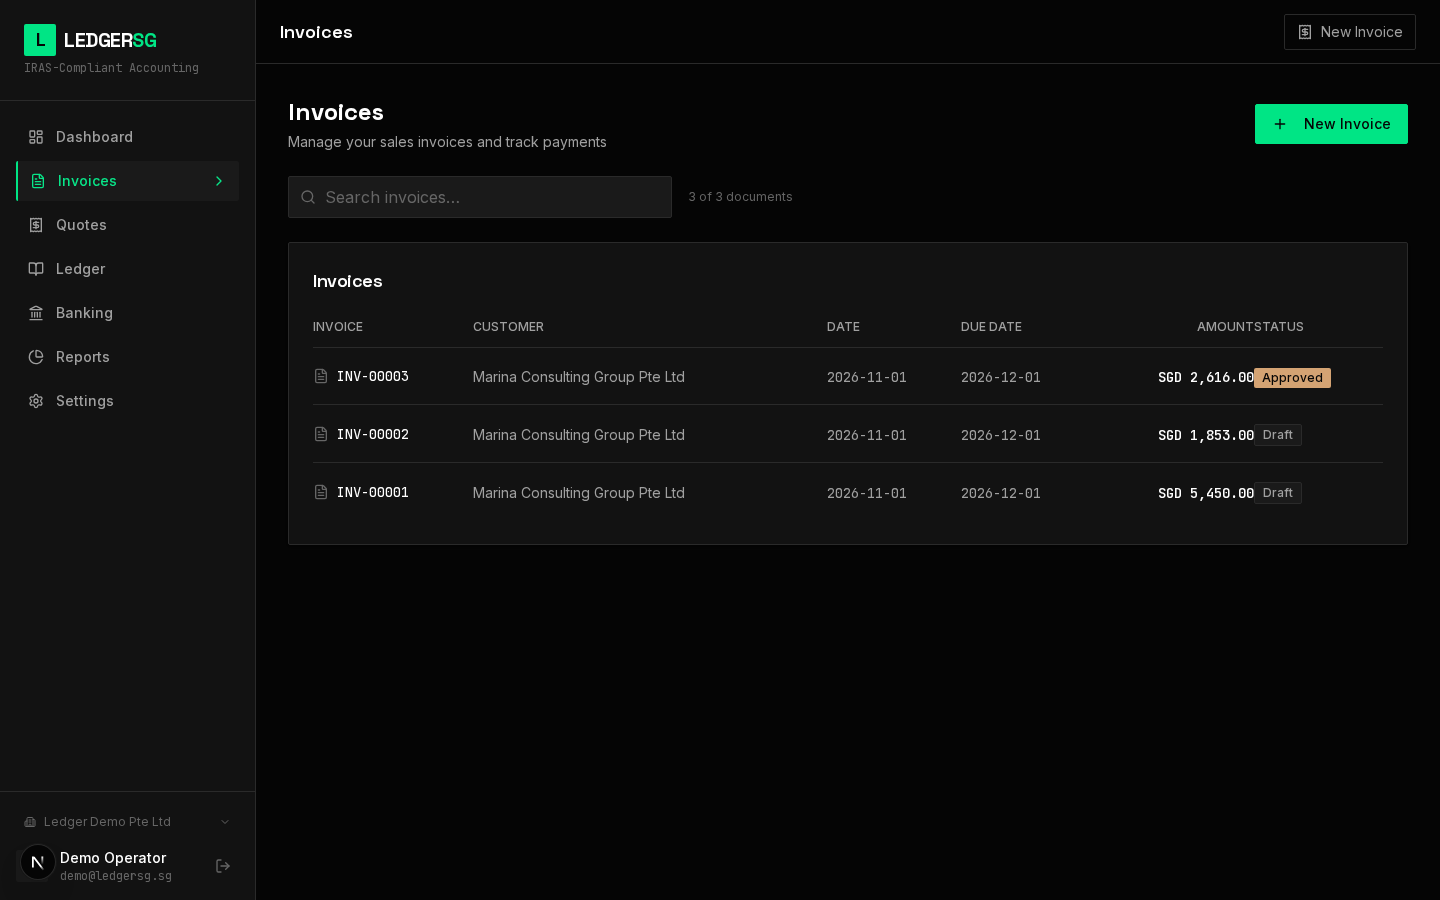
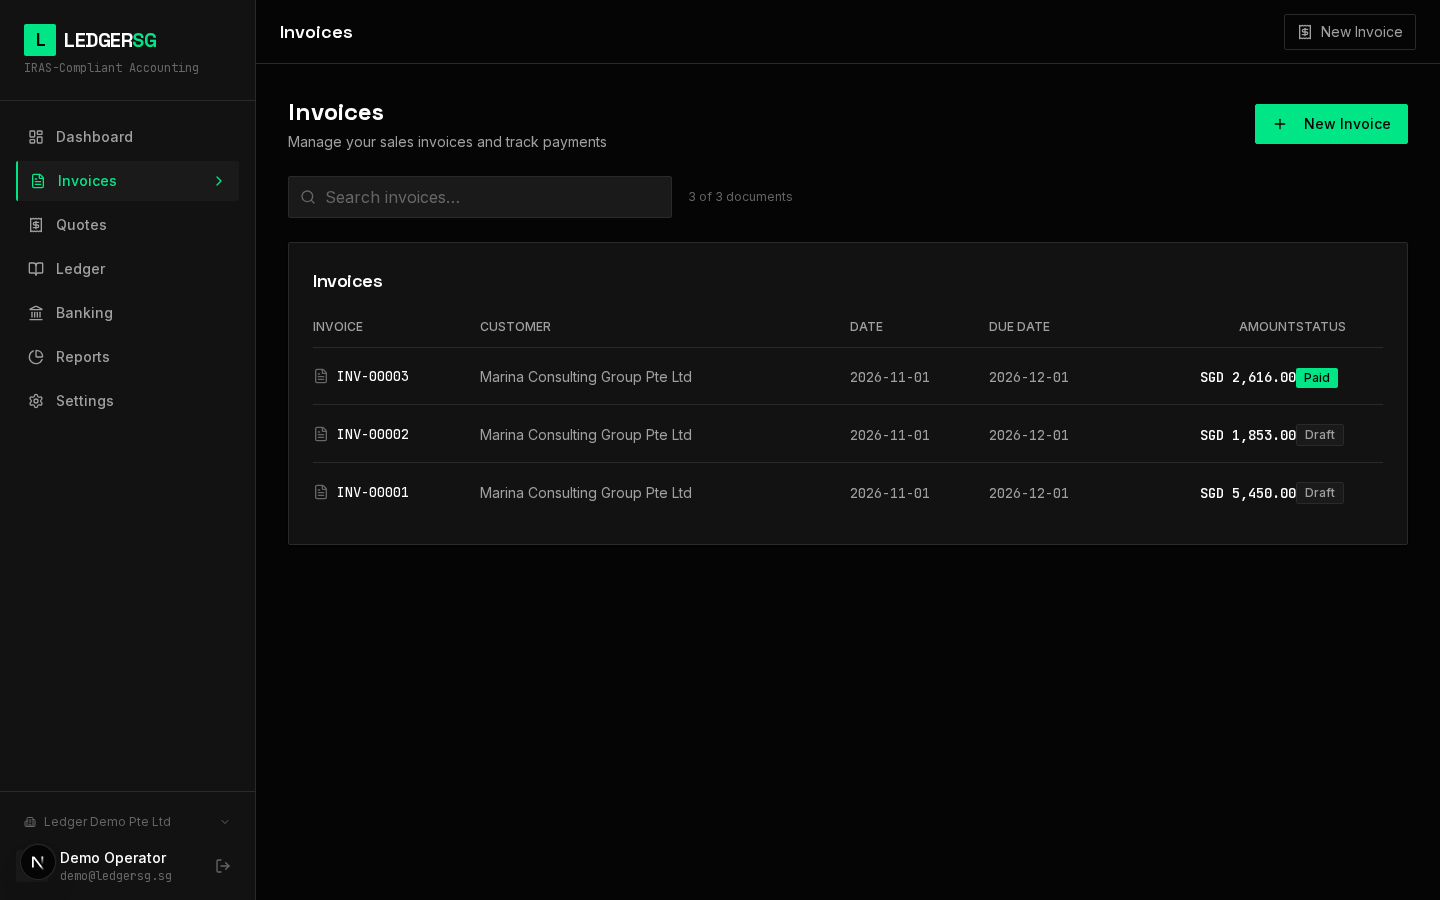
fix(banking,web,e2e): the live workflow gate — three contract fixes surfaced by e2e:full, then 26/26 green
The second and third live runs surfaced what the mocked unit gates
structurally could not see:

1. The bank-account create serializer rejected paynow_type: null — the
   dialog's 'no PayNow' wire value — so the account could never be
   created through the UI (the DB columns are nullable; the CHECK
   allows NULL or UEN/MOBILE/NRIC, and "" violates it — null is the
   correct wire value). Both create and update serializers accept null
   now, and the dialog's unit test pins the payload contract.
2. The dialog's GL picker queried the plain accounts list and filtered
   is_bank client-side — the seeded bank accounts are CHILDREN of the
   1000 header, hidden by the list's top-level-only default. The
   account_type lift from the previous commit did not cover the plain
   query: an is_bank filter param now exists end-to-end (service, view,
   hook) and the dialog uses it.
3. The workflow spec itself: serial mode (the three tests are a chain
   sharing live data — fullyParallel raced them), --workers=1 for
   e2e:full (writer-spec vs reader-specs on one shared DB), unique
   per-run fixtures, overlay-scoped selectors (strict-mode collisions
   with the tab buttons behind), the RCP- payment-number matcher, and
   the trailing-slash URL shape.

Live gate: e2e:full 26/26 (the banking workflow: bank account dialog →
Record Payment deep link + contact picker + allocation → multipart
import → rendered 100% match → reconcile → invoice Paid), 6/6 verified
[…]

diff --git a/apps/web/e2e/banking.spec.ts b/apps/web/e2e/banking.spec.ts
@@ -18,6 +18,11 @@ test.skip(
   "requires E2E_API_URL (live backend) — run via npm run test:e2e:full"
 );
 
+// The three tests are a WORKFLOW CHAIN sharing live data (test 2 needs
+// test 1's bank account; test 3 needs test 2's payment) — the config's
+// fullyParallel would race them against each other.
+test.describe.configure({ mode: "serial" });
+
 async function loginViaUi(page: import("@playwright/test").Page) {
   await page.goto("/login");
   await page.locator("input[type='email']").fill(
@@ -43,16 +48,19 @@ test("bank account dialog creates a real account (P9/B-4)", async ({ page }) => 
     .first()
     .click();
 
+  // Unique per run — the workflow is re-runnable against a live DB (the
+  // duplicate account_number would 400 on a second pass).
+  const runId = Date.now().toString(36);
   const dialog = page.getByRole("dialog");
-  await dialog.getByLabel(/account name/i).fill("E2E Operating Account");
+  await dialog.getByLabel(/account name/i).fill(`E2E Operating ${runId}`);
   await dialog.getByLabel(/bank name/i).fill("Development Bank");
-  await dialog.getByLabel(/account number/i).fill("8888-7777-6666");
+  await dialog.getByLabel(/account number/i).fill(`8888-${runId}`);
   // GL account: the seeded 1100 bank-type series (filterable since P9/C-4)
   await dialog.getByLabel(/gl account/i).selectOption({ index: 1 });
   await dialog.getByRole("button", { name: /add account/i }).click();
 
   // The account appears in the list and the dialog closed.
-  await expect(page.getByText("E2E Operating Account")).toBeVisible({
+  await expect(page.getByText(`E2E Operating ${runId}`)).toBeVisible({
     timeout: 15000,
   });
   await expect(page.getByRole("dialog")).toBeHidden();
@@ -74,7 +82,7 @@ test("record payment settles an invoice end to end (P9/B-3, B-3b)", async ({ pag
   // The P9/B-3b action: Record Payment deep-links into Banking prefilled
   // (?receive=1&contact=…&document=…&amount=…).
   await page.getByRole("button", { name: /record payment/i }).click();
-  await expect(page).toHaveURL(/\/banking\?receive=1/, { timeout: 20000 });
+  await expect(page).toHaveURL(/\/banking\/?\?receive=1/, { timeout: 20000 });
 
   await expect(
     page.getByRole("heading", { name: /receive payment/i })
@@ -89,15 +97,18 @@ test("record payment settles an invoice end to end (P9/B-3, B-3b)", async ({ pag
 
   // Bank account: the one the previous test created.
   await page.getByRole("combobox", { name: /bank account/i }).click();
-  await page.getByRole("option", { name: /e2e operating/i }).click();
+  await page.getByRole("option", { name: /e2e operating/i }).first().click();
 
   await page.getByLabel("Payment amount").fill(due);
-  await page.getByRole("button", { name: /receive payment/i }).click();
+  // Scoped to the overlay — the payments tab behind it carries a
+  // "Receive Payment" button of its own (strict mode).
+  const receiveOverlay = page.locator("div.fixed.inset-0");
+  await receiveOverlay
+    .getByRole("button", { name: /receive payment/i })
+    .click();
 
   // The form closes; the invoice settles (full allocation → Paid).
-  await expect(
-    page.getByRole("heading", { name: /receive payment/i })
-  ).toBeHidden({ timeout: 20000 });
+  await expect(receiveOverlay).toBeHidden({ timeout: 20000 });
 
   await page.getByRole("link", { name: /^Invoices$/ }).click();
   const settledRow = page.locator("tr", { hasText: "INV-" }).filter({
@@ -134,7 +145,7 @@ test("statement import sends real multipart and matches reconcile (P9/B-1, B-2, 
     .locator("div.fixed.inset-0")
     .filter({ hasText: "Import Bank Statement" });
   await overlay.getByRole("combobox", { name: /bank account/i }).click();
-  await page.getByRole("option", { name: /e2e operating/i }).click();
+  await page.getByRole("option", { name: /e2e operating/i }).first().click();
 
   // Real file upload — the multipart path (pre-P9 the import could never
   // succeed: JSON.stringify(FormData) sent "{}" with a JSON content-type).
@@ -164,9 +175,11 @@ test("statement import sends real multipart and matches reconcile (P9/B-1, B-2, 
     .getByRole("button", { name: /reconcile/i })
     .click();
 
+  // The payment number is sequence-prefixed (RCP-00001) — the match row
+  // is the only overlay button carrying it.
   const matchRow = page
     .locator("div.fixed.inset-0")
-    .getByRole("button", { name: /rec-/i })
+    .getByRole("button", { name: /rcp-\d|rec-\d/i })
     .first();
   await expect(matchRow).toBeVisible({ timeout: 15000 });
   await matchRow.click();
@@ -176,7 +189,9 @@ test("statement import sends real multipart and matches reconcile (P9/B-1, B-2, 
     .getByRole("button", { name: /^reconcile$/i })
     .click();
 
-  // The overlay closes and the transaction shows reconciled.
+  // The overlay closes and the transaction shows reconciled (the badge
+  // AND the "Reconciled: <timestamp>" line both carry the word — .first()
+  // is the badge).
   await expect(
     page.locator("div.fixed.inset-0").filter({ hasText: "Suggested Matches" })
   ).toBeHidden({ timeout: 20000 });
@@ -184,6 +199,6 @@ test("statement import sends real multipart and matches reconcile (P9/B-1, B-2, 
     transactionRow.first().getByText("Unreconciled")
   ).toBeHidden({ timeout: 20000 });
   await expect(
-    transactionRow.first().getByText("Reconciled")
+    transactionRow.first().getByText("Reconciled").first()
   ).toBeVisible({ timeout: 20000 });
 });

diff --git a/apps/web/src/app/(dashboard)/banking/components/bank-account-dialog.tsx b/apps/web/src/app/(dashboard)/banking/components/bank-account-dialog.tsx
@@ -35,8 +35,12 @@ interface Props {
 
 export function BankAccountDialog({ open, onOpenChange, orgId }: Props) {
   const createAccount = useCreateBankAccount(orgId);
+  // P9/B-4: query the bank-type accounts directly (server-side; the
+  // seeded 1100 series are CHILDREN of the 1000 header, so the plain
+  // list's top-level default hid them from the client-side filter).
   const { data: accountsData, isLoading: accountsLoading } = useAccounts(orgId, {
     is_active: true,
+    is_bank: true,
   });
 
   const bankAccounts = useMemo(

diff --git a/apps/web/src/app/(dashboard)/banking/__tests__/bank-account-dialog.test.tsx b/apps/web/src/app/(dashboard)/banking/__tests__/bank-account-dialog.test.tsx
@@ -96,6 +96,11 @@ describe("BankAccountDialog (P9/B-4)", () => {
           account_number: "1234567890",
           currency: "SGD",
           gl_account: "11111111-1111-4111-8111-111111111111",
+          // The wire contract the live e2e caught: no PayNow selected →
+          // null on the wire (the DB CHECK rejects ""; the serializer
+          // accepts null since P9/B-4).
+          paynow_type: null,
+          paynow_id: null,
         })
       );
     });

diff --git a/apps/web/src/hooks/use-accounts.ts b/apps/web/src/hooks/use-accounts.ts
@@ -25,7 +25,13 @@ export interface AccountOption {
 
 export function useAccounts(
   orgId: string | null,
-  filters?: { account_type?: string; is_active?: boolean }
+  filters?: {
+    account_type?: string;
+    is_active?: boolean;
+    /** Bank-type accounts (the seeded 1100 series) — the bank-account
+     * dialog's GL picker (P9/B-4). Server-side filter; children included. */
+    is_bank?: boolean;
+  }
 ) {
   const queryString = filters
     ? "?" +

diff --git a/apps/backend/tests/integration/test_bank_account_p9.py b/apps/backend/tests/integration/test_bank_account_p9.py
@@ -1,0 +1,97 @@
+"""
+P9/B-4 (live-gate follow-up): the bank-account create contract accepts
+unset PayNow.
+
+The dialog sends paynow_type: null / paynow_id: null when the user
+selects no PayNow — the DB columns are nullable (the CHECK allows NULL
+or UEN/MOBILE/NRIC), but the ModelSerializer rejected null with a 400,
+so the live e2e workflow could never create a bank account through the
+UI (the mocked unit test could not see the contract break).
+"""
+
+import uuid
+from datetime import date
+
+import pytest
+from rest_framework import status
+
+from apps.core.models import AppUser, Organisation, Role, UserOrganisation
+
+pytestmark = pytest.mark.django_db
+
+
+def _org_with_banker():
+    user = AppUser.objects.create(
+        id=uuid.uuid4(),
+        email=f"banker_{uuid.uuid4().hex[:8]}@example.com",
+        full_name="Banker",
+        is_active=True,
+    )
+    org = Organisation.objects.create(
+        name="Banker Org", entity_type="PRIVATE_LIMITED", base_currency="SGD"
+    )
+    role = Role.objects.create(
+        org=org, name="Owner", description="o",
+        can_manage_banking=True, can_manage_org=True,
+    )
+    UserOrganisation.objects.create(
+        user=user, org=org, role=role, is_default=True,
+        invited_at=date.today(), accepted_at=date.today(),
+    )
+    return user, org
+
+
+def _client(user):
+    from rest_framework.test import APIClient
+    from rest_framework_simplejwt.tokens import RefreshToken
+
+    client = APIClient()
+    refresh = RefreshToken.for_user(user)
+    client.credentials(HTTP_AUTHORIZATION=f"Bearer {str(refresh.access_token)}")
+    return client
+
+
+class TestBankAccountCreateP9:
+    def test_null_paynow_is_accepted(self):
+        """paynow_type: null / paynow_id: null → 201 (the DB columns are
+        nullable; "" would violate the CHECK — null is the correct wire
+        value for "no PayNow")."""
+        from apps.core.services.organisation_service import create_organisation
+
+        user = AppUser.objects.create(
+            id=uuid.uuid4(),
+            email=f"seed_{uuid.uuid4().hex[:8]}@example.com",
+            full_name="Seeder",
+            is_active=True,
+        )
+        org = create_organisation(user=user, name="Seeded Banker Org")
+
+        # the seeded bank-type GL account (1100 series — visible since C-4)
+        from apps.core.models import Account
+
+        gl = Account.objects.filter(org=org, is_bank=True).first()
+        assert gl is not None, "the seeded chart must include bank accounts"
+
+        client = _client(user)
+        response = client.post(
+            f"/api/v1/{org.id}/banking/bank-accounts/",
+            {
+                "account_name": "Operating",
+                "bank_name": "Test Bank",
+                "account_number": "000-111-222",
+                "currency": "SGD",
+                "gl_account": str(gl.id),
+                "paynow_type": None,
+                "paynow_id": None,
+                "is_default": False,
+            },
+            format="json",
+        )
+
+        assert response.status_code == status.HTTP_201_CREATED, response.data
+
+        gl.refresh_from_db()
+        from apps.core.models import BankAccount
+
+        created = BankAccount.objects.get(org=org, account_number="000-111-222")
+        assert created.paynow_type is None

diff --git a/apps/backend/apps/banking/serializers/bank_account.py b/apps/backend/apps/banking/serializers/bank_account.py
@@ -49,6 +49,17 @@ class BankAccountCreateSerializer(serializers.ModelSerializer):
     - No duplicate account_number per org
     """
 
+    # P9/B-4: "no PayNow" is null on the wire — the DB columns are
+    # nullable (the CHECK allows NULL or UEN/MOBILE/NRIC; "" violates it).
+    # The ModelSerializer default rejected null, so the UI dialog (which
+    # sends null when nothing is selected) could never create an account.
+    paynow_type = serializers.ChoiceField(
+        choices=["UEN", "MOBILE", "NRIC"], required=False, allow_null=True
+    )
+    paynow_id = serializers.CharField(
+        max_length=20, required=False, allow_blank=True, allow_null=True
+    )
+
     class Meta:
         model = BankAccount
         fields = [
@@ -128,6 +139,10 @@ class BankAccountCreateSerializer(serializers.ModelSerializer):
         paynow_type = data.get("paynow_type")
         paynow_id = data.get("paynow_id")
 
+        # "" and null both mean "unset"; the DB stores NULL (P9/B-4)
+        if paynow_id == "":
+            data["paynow_id"] = None
+
         if paynow_type and not paynow_id:
             raise serializers.ValidationError(
                 {"paynow_id": _("PayNow ID is required when PayNow type is specified.")}
@@ -192,6 +207,10 @@ class BankAccountUpdateSerializer(serializers.ModelSerializer):
     def validate(self, data):
         paynow_type = data.get("paynow_type")
         paynow_id = data.get("paynow_id")
+
+        # "" and null both mean "unset"; the DB stores NULL (P9/B-4)
+        if paynow_id == "":
+            data["paynow_id"] = None
 
         if paynow_type and not paynow_id:
             raise serializers.ValidationError(

diff --git a/apps/backend/apps/coa/services.py b/apps/backend/apps/coa/services.py
@@ -61,6 +61,7 @@ class AccountService:
         account_type: str | None = None,
         is_active: bool | None = None,
         is_system: bool | None = None,
+        is_bank: bool | None = None,
         parent_id: UUID | None = None,
         code: str | None = None,
         search: str | None = None,
@@ -87,16 +88,21 @@ class AccountService:
         if is_system is not None:
             queryset = queryset.filter(is_system=is_system)
 
+        # P9/B-4: bank-type accounts are CHILDREN in the seeded chart —
+        # the bank-account dialog's GL picker queries them directly.
+        if is_bank is not None:
+            queryset = queryset.filter(is_bank=is_bank)
+
         if code:
             queryset = queryset.filter(code=code)
 
         if parent_id:
             queryset = queryset.filter(parent_id=parent_id)
-        elif not code and not search and not account_type:
+        elif not code and not search and not account_type and is_bank is None:
             # Default: only top-level accounts if no specific filter provided.
-            # A type filter lifts the restriction (P9/B-4): the seeded bank
-            # accounts are CHILDREN of the 1000 header — hiding them left the
-            # bank-account dialog's GL picker empty.
+            # A type or bank filter lifts the restriction (P9/B-4): the
+            # seeded bank accounts are CHILDREN of the 1000 header — hiding
+            # them left the bank-account dialog's GL picker empty.
             queryset = queryset.filter(parent__isnull=True)
 
         if search:

diff --git a/apps/backend/apps/coa/views.py b/apps/backend/apps/coa/views.py
@@ -45,6 +45,7 @@ class AccountListCreateView(APIView):
         account_type = request.query_params.get("account_type")
         is_active = request.query_params.get("is_active")
         is_system = request.query_params.get("is_system")
+        is_bank = request.query_params.get("is_bank")
         parent_id = request.query_params.get("parent_id")
         code = request.query_params.get("code")
         search = request.query_params.get("search")
@@ -56,6 +57,8 @@ class AccountListCreateView(APIView):
             is_active = is_active.lower() == "true"
         if is_system is not None:
             is_system = is_system.lower() == "true"
+        if is_bank is not None:
+            is_bank = is_bank.lower() == "true"
         if parent_id:
             from uuid import UUID
 
@@ -70,6 +73,7 @@ class AccountListCreateView(APIView):
             account_type=account_type,
             is_active=is_active,
             is_system=is_system,
+            is_bank=is_bank,
             parent_id=parent_id,
             code=code,
             search=search,

diff --git a/apps/backend/tests/integration/test_seeded_account_type_p9.py b/apps/backend/tests/integration/test_seeded_account_type_p9.py
@@ -89,3 +89,16 @@ class TestSeededAccountTypeP9:
             "the seeded bank accounts (children of the 1000 header) must "
             f"appear in the ASSET-filtered list; got {codes[:15]}…"
         )
+
+    def test_is_bank_filter_returns_bank_accounts(self, test_user):
+        """P9/B-4 (second follow-up): the dialog queries the plain list and
+        filters is_bank client-side — but the top-level-only default hid
+        the bank children. The explicit is_bank filter must return them."""
+        from apps.coa.services import AccountService
+
+        org = self._seeded_org(test_user)
+
+        rows = AccountService.list_accounts(org_id=org.id, is_bank=True)
+        codes = [r.code for r in rows]
+        assert codes, "the seeded bank accounts must be reachable via is_bank=True"
+        assert all(c.startswith("11") for c in codes), codes
